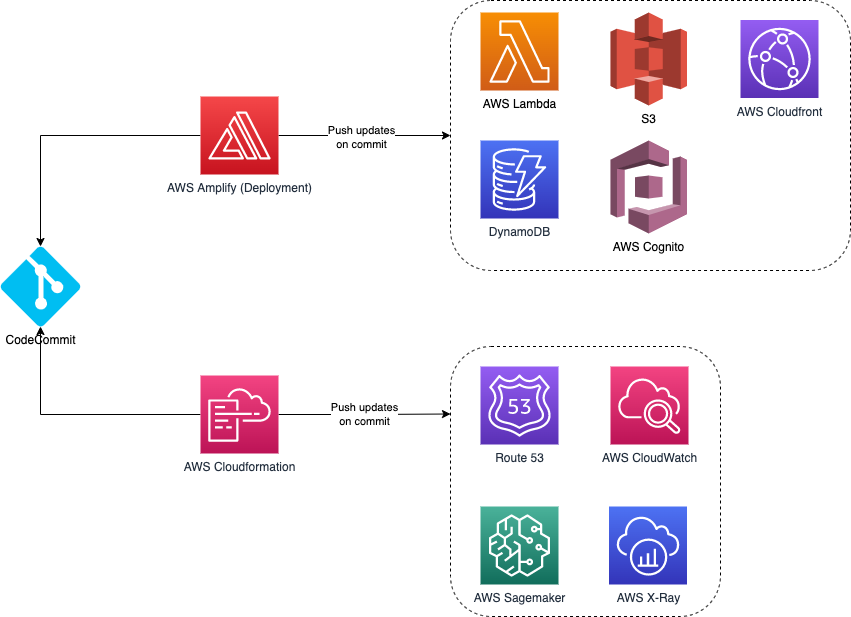
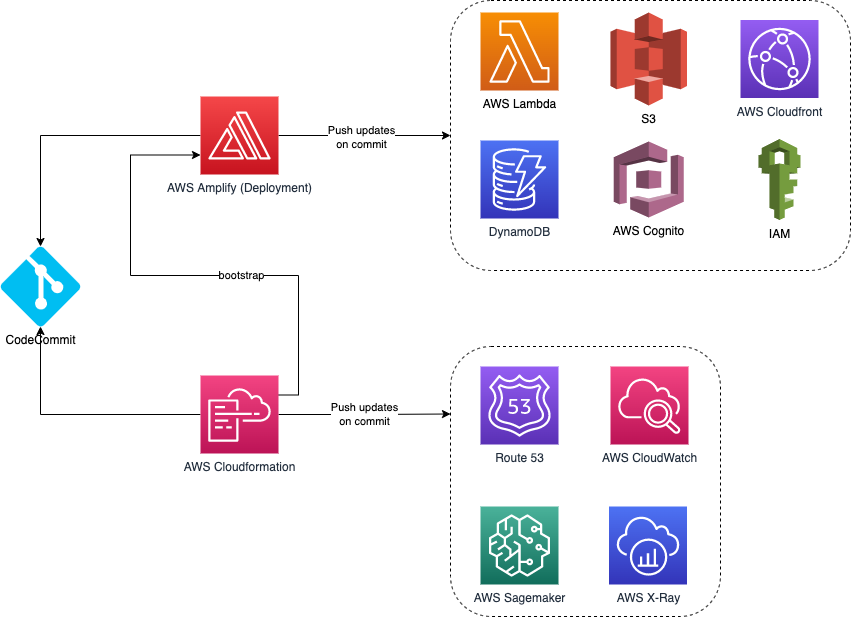
Updated as per Donald's comments

diff --git a/README.md b/README.md
@@ -236,8 +236,8 @@ For a detailed breakout of components from the HLD, and their handling, see [her
 
 Two CI/CD pipelines are proposed to facilitate updates to the infrastructure and applications on the platform:
 
-- AWS Cloudformation will be used to deploy a Route53 zone and subsequent record changes, SageMaker instance and observability tools
-- AWS Amplify will be used to deploy all the services necessary for the application to run (e.g. Lambda, Cloudfront, Appsync, DynamoDB)
+- AWS Cloudformation will be used to deploy a Route53 zone and subsequent record changes, SageMaker instance, IAM roles and policies, and observability tools. Cloudformation will also bootstrap Amplify.
+- AWS Amplify will be used to deploy all the services necessary for the application to run (e.g. Lambda, Cloudfront, Appsync, DynamoDB). It was also handle deployment to services that it depends on, including data models and required accesses.
 
 Updates will be triggered on commit, and the tools will be triggered via webhook.
 
